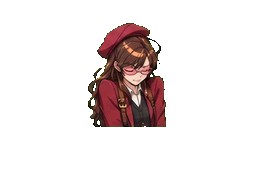
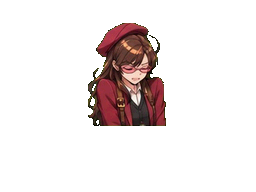
Chayo: pares de boca cerrada/abierta reales (cuadro completo alineado) y diálogos con su personalidad
Claude-Session: https://claude.ai/code/session_01Xb94a44mJyTYV8GKKMfxw2

Changed region(s): [[0.3438, 0.0938, 0.6562, 0.6875]]

diff --git a/casos/caso1.js b/casos/caso1.js
@@ -74,11 +74,11 @@ const CROSS = {
   z1: {
     who:"zoila", title:"Lo que vi desde mi balcón", music:"interrogatorio",
     tutorial:[
-      {who:"chayo",mood:"serious",text:"(Justo, ahora te toca a ti. Puedes ir declaración por declaración.)"},
-      {who:"chayo",text:"(Si algo no te cuadra, [r]presiona[/r]: le pides que explique mejor. A veces se les escapa algo.)"},
-      {who:"chayo",mood:"think",text:"(Y si algo de lo que dice no calza con el expediente, [r]preséntale la prueba[/r].)"},
+      {who:"chayo",mood:"serious",text:"(Tu turno, Justo. Como en una entrevista: declaración por declaración, sin apuro.)"},
+      {who:"chayo",text:"(Si algo no te cuadra, [r]presiona[/r]. En Periodismo le decíamos «repreguntar». A la gente se le escapan cosas.)"},
+      {who:"chayo",mood:"think",text:"(Y si algo no calza con el expediente, [r]preséntale la prueba[/r]. Eso ya es puro Derecho.)"},
     ],
-    loopHint:[{who:"chayo",mood:"think",text:"(Justo, ¿qué tanto se veía en esa calle a esa hora? Revisa lo que te pasé.)"}],
+    loopHint:[{who:"chayo",mood:"think",text:"(Justo, ¿qué tanto se veía en esa calle a esa hora? Revisa lo que te pasé. Yo ya lo leí tres veces.)"}],
     statements:[
       {id:"a", mood:"smug", text:"Vivo al frente de la galería, en el segundo piso. Desde mi balcón se ve la entrada completa.",
        press:[{who:"ines",text:"¿Pasa mucho tiempo en el balcón, señora?"},
@@ -87,7 +87,7 @@ const CROSS = {
       {id:"b", text:"Esa noche no hubo caso con la tele, así que salí al balcón a tomar aire.",
        press:[{who:"ines",mood:"think",text:"¿Qué le pasó a la tele?"},
               {who:"zoila",mood:"sweat",text:"Se apagó, pues. Justo cuando empezaba mi teleserie."},
-              {who:"chayo",mood:"think",text:"(Se apagó sola. A esa hora.)"}]},
+              {who:"chayo",mood:"think",text:"(Se apagó sola. A esa hora. Anotado.)"}]},
       {id:"c", text:"Como a las once y media sentí que se quebraba un vidrio.",
        press:[{who:"ines",text:"¿Está segura de la hora?"},
               {who:"zoila",text:"Mi teleserie empieza a las once. Ya me había resignado hace rato."}]},
@@ -113,7 +113,7 @@ const CROSS = {
   },
   z2: {
     who:"zoila", title:"Lo que de verdad vi", music:"interrogatorio",
-    loopHint:[{who:"chayo",mood:"think",text:"(¿Una chaqueta de ese tamaño? Justo, ¿qué otra cosa mide tanto en este caso?)"}],
+    loopHint:[{who:"chayo",mood:"think",text:"(¿Una chaqueta de ese tamaño? ¿Qué otra cosa mide tanto en este caso? Yo sé, pero no te digo.)"}],
     statements:[
       {id:"a", mood:"sweat", text:"Ya, estaba oscuro. Pero había luna, y una se acostumbra.",
        press:[{who:"ines",text:"¿Cuánto se alcanzaba a ver?"},
@@ -122,7 +122,7 @@ const CROSS = {
       {id:"b", text:"Vi un bulto claro en la vereda, frente a la galería.",
        press:[{who:"ines",mood:"think",text:"¿Lo vio salir de la galería?"},
               {who:"zoila",mood:"sweat",text:"Salir, no. Cuando miré ya iba por la vereda."},
-              {who:"chayo",mood:"think",text:"(Entonces no sabe por dónde salió.)"}]},
+              {who:"chayo",mood:"think",text:"(No sabe por dónde salió. Lo supuso. Clásico: el cerebro rellena lo que no vio.)"}]},
       {id:"c", mood:"smug", text:"Grande. Fácil dos metros. Era la chaqueta del cabro, estoy segura.",
        press:[{who:"ines",mood:"think",text:"¿Por qué está tan segura de que era él?"},
               {who:"zoila",mood:"smug",text:"Porque es el único que anda de amarillo por ahí, pues."},
@@ -142,20 +142,20 @@ const CROSS = {
   },
   g1: {
     title:"Lo que vi esa noche", music:"interrogatorio",
-    loopHint:[{who:"chayo",mood:"think",ifHidden:"c",text:"(Justo, no dijo qué encontró al llegar a la sala. ¡Presiónalo!)"},
+    loopHint:[{who:"chayo",mood:"think",ifHidden:"c",text:"(Justo, no dijo qué encontró al llegar a la sala. ¡Presiónalo! Me muero de curiosidad.)"},
               {who:"chayo",mood:"think",text:"(Y si alguien rompe una ventana desde la calle, ¿para dónde caen los vidrios?)"}],
     statements:[
       {id:"a", text:"Hice la ronda de las once y dejé la sala principal con llave. Esa llave la manejo solo yo.",
        press:[{who:"ines",mood:"think",text:"¿No hay copias?"},
               {who:"testigo",mood:"smile",text:"Ninguna. La dueña nunca quiso hacer. La ando trayendo yo, siempre."},
-              {who:"chayo",mood:"serious",text:"(Una sola llave. Acuérdate de eso.)"}]},
+              {who:"chayo",mood:"serious",text:"(Una sola llave. Y lo dijo con orgullo. Acuérdate de eso.)"}]},
       {id:"b", text:"Como a las once y media sentí el vidrio y partí para la sala.", adds:"c",
        press:[{who:"ines",text:"¿Dónde estaba usted?"},
               {who:"testigo",text:"En la caseta, tomando once. Tarde, sí. Uno come cuando puede."},
               {who:"ines",mood:"think",text:"¿Y qué encontró cuando llegó a la sala?"},
               {who:"testigo",mood:"smug",text:"¡La ventana rota, pues! Si eso es lo principal. Se me pasó contarlo."},
               {who:"jueza",mood:"serious",text:"Señor Llavín, agregue eso a su declaración. Con detalle."},
-              {who:"chayo",mood:"excited",text:"(¿Viste? Presionar sirve. A veces sale lo que no querían decir.)"}]},
+              {who:"chayo",mood:"excited",text:"(¿Viste? Presionar sirve. La gente habla de más cuando se siente cómoda. Psicología, primer año.)"}]},
       {id:"c", hidden:true, text:"El tipo había roto la ventana desde la calle para meterse.",
        press:[{who:"ines",mood:"think",text:"¿Lo vio romperla?"},
               {who:"testigo",mood:"smug",text:"No. Pero no hay que ser detective. Vidrio roto, ladrón adentro."}],
@@ -183,7 +183,7 @@ const CROSS = {
         {who:"tomas",mood:"down",text:"Don Justo... ¿ya está?"},
         {who:"ines",mood:"down",text:"(Así debe haber sido para mi papá. Todos de acuerdo, y él hablando solo.)"},
         {who:"chayo",mood:"serious",text:"Justo. Mírame."},
-        {who:"chayo",mood:"think",text:"La señora dijo que salió al balcón porque se le apagó la tele. ¿Te acuerdas?"},
+        {who:"chayo",mood:"think",text:"La señora dijo que salió al balcón porque se le apagó la tele. ¿Te acuerdas? Yo lo anoté."},
         {who:"chayo",mood:"think",text:"O sea que ya estaba afuera cuando sonó el vidrio."},
         {who:"ines",mood:"think",text:"(Ya estaba afuera...)"},
         {who:"ines",mood:"think",text:"(¿Y qué vio en ese rato? Nadie le preguntó [r]en qué orden[/r] pasaron las cosas.)"},
@@ -203,7 +203,7 @@ const CROSS = {
   },
   z3: {
     who:"zoila", title:"El orden de las cosas", music:"interrogatorio",
-    loopHint:[{who:"chayo",mood:"think",text:"(Pregúntale por el bulto, Justo. Cuándo lo vio, exactamente.)"}],
+    loopHint:[{who:"chayo",mood:"think",text:"(Pregúntale por el bulto, Justo. Cuándo lo vio, exactamente. Los detalles chicos son los que delatan.)"}],
     statements:[
       {id:"a", text:"Yo estaba en el balcón desde que se cortó la luz. Con mi tecito.",
        press:[{who:"ines",text:"¿Todo ese rato?"},
@@ -226,7 +226,7 @@ const CROSS = {
   },
   g2: {
     title:"Lo que alumbré", music:"persecucion",
-    loopHint:[{who:"chayo",mood:"think",text:"(Justo, ¿qué anotó él en su bitácora esa noche? Léela entera.)"}],
+    loopHint:[{who:"chayo",mood:"think",text:"(¿Qué anotó él en su bitácora esa noche? Léela entera, Justo. Hasta la tapa. Yo leo hasta las etiquetas.)"}],
     statements:[
       {id:"a", mood:"sweat", text:"Mire, yo tengo llave porque es mi pega. Eso no me hace ladrón.",
        press:[{who:"ines",text:"Nadie dijo «ladrón», don Custodio."},
@@ -253,7 +253,7 @@ const CROSS = {
       {id:"d", text:"Era el cabro, con el cuadro ya envuelto en su lona amarilla.",
        press:[{who:"ines",mood:"think",text:"¿Amarilla?"},
               {who:"testigo",text:"Amarilla. La de su andamio. Si la conozco."},
-              {who:"chayo",mood:"think",text:"(¿Y eso cómo lo vio?)"}]},
+              {who:"chayo",mood:"think",text:"(¿Y eso cómo lo vio? Ojo con sus manos: no sabe dónde ponerlas.)"}]},
       {id:"e", mood:"angry", text:"Se me arrancó. Uno ya no tiene veinte años.",
        press:[{who:"ines",text:"¿Por dónde se arrancó?"},
               {who:"testigo",mood:"sweat",text:"Por... por la ventana, pues."},
@@ -288,7 +288,7 @@ const DIRECT = {
       {who:"chayo",mood:"think",text:"(No puede [r]soplarle la respuesta[/r]. Ni preguntar [r]dando por hecho algo que nadie ha probado[/r].)"},
       {who:"chayo",mood:"serious",text:"(Si lo hace, [r]protestas[/r]. Y le dices a la jueza por qué. Sin motivo, pierdes credibilidad.)"},
       {who:"ines",mood:"think",text:"(Y si la pregunta es limpia, la dejo pasar. Ok. Ok.)"},
-      {who:"chayo",mood:"smile",text:"(La primera te la soplo yo. Después sigues solo.)"}],
+      {who:"chayo",mood:"smile",text:"(La primera te la soplo yo. Después sigues solo. Yo voy a estar mirando. Y anotando.)"}],
     questions:[
       {who:"fiscal", mood:"smug", text:"Señor Llavín, usted es un guardia honrado, que jamás ha mentido, ¿verdad?", bad:"sugiere",
        coach:[{who:"chayo",mood:"think",text:"(¿Escuchaste? Le puso la respuesta en la boca. Él solo tiene que decir «sí».)"},
@@ -324,7 +324,7 @@ const DIRECT = {
     ],
     end:[
       {who:"fiscal",mood:"smug",text:"No más preguntas, Su Señoría. Que el testigo cuente el resto con sus palabras."},
-      {who:"chayo",mood:"excited",text:"(¡Bien, Justo! No le dejaste pasar ni una trampa a Penna.)"}],
+      {who:"chayo",mood:"excited",text:"(¡Bien, Justo! Ni una trampa le dejaste pasar a Penna. Esto va directo a mi libreta.)"}],
   },
 };
 /* Respuestas generales del interrogatorio directo (se usan en cualquier interrogatorio) */
@@ -360,7 +360,7 @@ const SCRIPT = [
   {who:"ines",pos:L,mood:"down",text:"(No era cierto. Pero nadie se dio el trabajo de escucharlo.)"},
   {who:"ines",pos:L,mood:"serious",text:"(Por eso estoy acá. Para darme el trabajo.)"},
   // ===== Chayo =====
-  {who:"chayo",pos:L,mood:"smile",text:"¡Justo! Llegaste antes que el portero."},
+  {who:"chayo",pos:L,mood:"smile",text:"¡Justo! Llegaste antes que el portero. Yo llegué antes que el portero. Y que tú."},
   {who:"ines",pos:L,mood:"sweat",text:"(Rosario Velado. «Chayo». Mi practicante desde hace una semana.)"},
   {who:"ines",pos:L,mood:"think",text:"(Estudió Psicología. Después Periodismo. Ahora Derecho. Dice que esta vez es la definitiva.)"},
   {who:"ines",pos:L,text:"No podía dormir."},
@@ -368,10 +368,10 @@ const SCRIPT = [
   {who:"ines",pos:L,mood:"think",text:"¿A las nueve de la mañana?"},
   {who:"chayo",pos:L,mood:"sweat",text:"Una era tuya. Perdón."},
   {who:"ines",pos:L,mood:"down",text:"(Ahí se fue mi desayuno.)"},
-  {who:"chayo",pos:L,mood:"serious",evidence:"ficha",text:"Toma, la ficha del cuadro. La saqué del catálogo de la galería."},
+  {who:"chayo",pos:L,mood:"serious",evidence:"ficha",text:"La ficha del cuadro. La saqué del catálogo. Y de paso le pregunté todo a la recepcionista."},
   {who:"ines",pos:L,mood:"think",text:"(Un metro ochenta de alto. El cuadro es más grande que yo.)"},
   {who:"chayo",pos:L,mood:"smile",text:"Y pesa veintidós kilos. Yo no lo colgaría sobre mi cama."},
-  {who:"chayo",pos:L,evidence:"luz",text:"Y esto estaba pegado en todos los postes del cerro. Esa noche cortaron la luz."},
+  {who:"chayo",pos:L,pose:"camara",evidence:"luz",text:"Y esto estaba en todos los postes del cerro. Le saqué foto, por si acaso. Esa noche cortaron la luz."},
   {who:"ines",pos:L,mood:"think",text:"(Un aviso de corte de luz. No sé si sirve de algo.)"},
   {who:"ines",pos:L,mood:"smug",text:"(Lo guardo. Mi papá guardaba hasta las boletas.)"},
   {who:"ines",pos:L,text:"¿Y Tomás?"},
@@ -381,7 +381,7 @@ const SCRIPT = [
   {who:"ines",pos:L,mood:"think",text:"(Tomás Pincheira, 22 años. Pinta murales. Lleva tres noches sin dormir en su casa.)"},
   {who:"ines",pos:L,text:"Vamos a hacer todo lo posible. Cuéntame de nuevo dónde estabas esa noche."},
   {who:"tomas",pos:L,mood:"sweat",text:"En mi pieza, durmiendo. Solo. Ya sé que suena pésimo."},
-  {who:"chayo",pos:L,mood:"worried",text:"Suena a que nadie puede confirmarlo."},
+  {who:"chayo",pos:L,mood:"think",text:"Suena a que nadie puede confirmarlo. Pero mira para abajo cuando lo dice. Eso es pena, no mentira."},
   {who:"ines",pos:L,mood:"think",text:"¿Entraste a la galería ese día?"},
   {who:"tomas",pos:L,mood:"sweat",text:"...A las seis. El caballero de la caseta me deja lavar las brochas adentro."},
   {who:"ines",pos:L,mood:"shock",text:"¿Y recién me lo dices?"},
@@ -392,7 +392,7 @@ const SCRIPT = [
   {who:"tomas",pos:L,mood:"down",text:"Ya decidieron que fui yo."},
   {who:"ines",pos:L,mood:"serious",text:"Todavía no decide nadie. Para eso es el juicio."},
   {who:"ines",pos:L,mood:"sweat",text:"(Ojalá sonara igual de seguro por dentro.)"},
-  {who:"chayo",pos:L,mood:"serious",text:"La Fiscalía trae al guardia de la galería. Dice que lo vio."},
+  {who:"chayo",pos:L,mood:"serious",text:"La Fiscalía trae al guardia de la galería. Dice que lo vio. Ya averigüé: lleva veinte años ahí."},
   {who:"ines",pos:L,mood:"serious",text:"Entonces hay que escuchar muy bien lo que dice."},
   // ===== EL JUICIO =====
   {cmd:"music", track:null},
@@ -412,7 +412,7 @@ const SCRIPT = [
   {who:"fiscal",mood:"serious",text:"Noche del 3 de noviembre. Galería Mirador, Cerro Alegre. Desaparece el óleo «La Sirena del Puerto»."},
   {who:"fiscal",mood:"serious",evidence:"bitacora",text:"El guardia de turno lo deja anotado a las 23:35. Acompaño su bitácora."},
   {who:"ines",mood:"think",text:"(Anota hasta las pilas que le faltan. Ordenado, el caballero.)"},
-  {who:"chayo",mood:"think",text:"(Y tiene un papel pegado en la tapa. Después lo leemos con calma.)"},
+  {who:"chayo",mood:"think",text:"(Y tiene un papel pegado en la tapa. Me muero por leerlo. Después, con calma.)"},
   {who:"fiscal",pose:"point",evidence:"ventana",text:"La sala tiene una sola ventana. Apareció rota."},
   {who:"jueza",mood:"confused",text:"¿La fotografía también fue sustraída?"},
   {who:"fiscal",mood:"sweat",text:"...No, Su Señoría. La fotografía es de la ventana."},
@@ -424,7 +424,7 @@ const SCRIPT = [
   {who:"chayo",mood:"serious",text:"(Míralas en el expediente, Justo. Con calma. Léelas enteras.)"},
   {who:"fiscal",mood:"smug",text:"Además, dos personas lo vieron esa noche."},
   {who:"ines",mood:"shock",text:"(¿Dos?)"},
-  {who:"chayo",mood:"sweat",text:"(...A mí me dijeron una. Perdón.)"},
+  {who:"chayo",mood:"sweat",text:"(...A mí me dijeron una. Mi fuente me falló. Perdón.)"},
   {who:"jueza",text:"Que pase la primera testigo. El otro espera afuera hasta que lo llamen."},
   {who:"ines",mood:"think",text:"(El guardia [r]espera afuera[/r]. No va a oír nada de lo que se diga aquí hasta que lo llamen.)"},
   // ===== TESTIGO 1 =====
@@ -609,15 +609,15 @@ const SCRIPT = [
   // ===== Chayo =====
   {who:"chayo",pos:L,mood:"excited",anim:"jump",text:"¡Justo! ¡Lo hiciste excelente! ¡Pero excelente de verdad!"},
   {who:"ines",pos:L,mood:"sweat",text:"Me salvaste tú. Lo del orden de las cosas fue idea tuya."},
-  {who:"chayo",pos:L,mood:"smile",text:"Yo solo pregunté. Tú hiciste el resto."},
-  {who:"chayo",pos:L,mood:"think",text:"¿Sabes? Creo que por fin encontré lo mío. Algún día yo también quiero tener mi juicio."},
+  {who:"chayo",pos:L,mood:"smile",text:"Yo solo pregunté. Es lo que mejor sé hacer. En tres carreras distintas."},
+  {who:"chayo",pos:L,mood:"think",text:"¿Sabes? Psicología no, Periodismo no... pero esto sí. Algún día quiero tener mi propio juicio."},
   {who:"ines",pos:L,mood:"smile",text:"¿Como defensora? Haríamos un equipo de miedo."},
   {who:"chayo",pos:L,mood:"sweat",text:"Eh... no exactamente."},
   {who:"chayo",pos:L,mood:"serious",text:"Mi sueño es ser fiscal. Como Máximo Penna."},
   {who:"ines",pos:L,mood:"shock",anim:"hit",text:"¡¿Como PENNA?!"},
   {who:"chayo",pos:L,mood:"excited",text:"¿Viste cómo pidió revisar la bodega? No quería ganar. Quería la verdad."},
   {who:"ines",pos:L,mood:"think",text:"(...Eso no se lo puedo discutir.)"},
-  {who:"chayo",pos:L,mood:"pout",text:"Aunque lo del café lo encuentro pura pose."},
+  {who:"chayo",pos:L,mood:"pout",text:"Aunque lo del café es pura pose. Psicológicamente, es un escudo."},
   // ===== Eduardo Estuardo =====
   {who:"eduardo",pos:L,mood:"smile",text:"Vaya, vaya. El hijo de Valdivia, con traje y todo."},
   {who:"ines",pos:L,mood:"shock",text:"¿Investigador Estuardo?"},
@@ -642,7 +642,7 @@ const SCRIPT = [
   {who:"chayo",pos:L,mood:"excited",text:"(¡Me miró! ¡Máximo Penna me miró!)"},
   {who:"ines",pos:L,mood:"sweat",text:"(No te miró, Chayo.)"},
   // ===== Cierre =====
-  {who:"chayo",pos:L,mood:"excited",text:"¡Empanadas! Invito yo. Para compensar la de la mañana."},
+  {who:"chayo",pos:L,mood:"excited",text:"¡Empanadas! Invito yo. Y me cuentas TODO lo que pensabas en cada testimonio."},
   {who:"ines",pos:L,mood:"smile",text:"Esa me la debías."},
   {who:"ines",pos:L,mood:"think",text:"(Hoy alguien se dio el trabajo de escuchar.)"},
   {who:"ines",pos:L,mood:"smug",text:"(Te habría gustado verlo, viejo.)"},

diff --git a/js/assets.js b/js/assets.js
@@ -1,5 +1,5 @@
 /* Rutas de las imágenes del juego. Para cambiar un sprite, reemplaza el PNG. */
-const ART={chayo:{angry:"assets/personajes/chayo/angry.png",angryTalk:"assets/personajes/chayo/angryTalk.png",annoyed:"assets/personajes/chayo/annoyed.png",annoyedTalk:"assets/personajes/chayo/annoyedTalk.png",base:"assets/personajes/chayo/base.png",blush:"assets/personajes/chayo/blush.png",blushTalk:"assets/personajes/chayo/blushTalk.png",camera:"assets/personajes/chayo/camera.png",cameraTalk:"assets/personajes/chayo/cameraTalk.png",cry:"assets/personajes/chayo/cry.png",cryTalk:"assets/personajes/chayo/cryTalk.png",down:"assets/personajes/chayo/down.png",downTalk:"assets/personajes/chayo/downTalk.png",embarrassed:"assets/personajes/chayo/embarrassed.png",embarrassedTalk:"assets/personajes/chayo/embarrassedTalk.png",excited:"assets/personajes/chayo/excited.png",excitedTalk:"assets/personajes/chayo/excitedTalk.png",face:"assets/personajes/chayo/face.png",facepalm:"assets/personajes/chayo/facepalm.png",facepalmTalk:"assets/personajes/chayo/facepalmTalk.png",giggle:"assets/personajes/chayo/giggle.png",giggleTalk:"assets/personajes/chayo/giggleTalk.png",glasses:"assets/personajes/chayo/glasses.png",glassesTalk:"assets/personajes/chayo/glassesTalk.png",laugh:"assets/personajes/chayo/laugh.png",laughTalk:"assets/personajes/chayo/laughTalk.png",panic:"assets/personajes/chayo/panic.png",panicTalk:"assets/personajes/chayo/panicTalk.png",photo:"assets/personajes/chayo/photo.png",photoTalk:"assets/personajes/chayo/photoTalk.png",point:"assets/personajes/chayo/point.png",pointTalk:"assets/personajes/chayo/pointTalk.png",serious:"assets/personajes/chayo/serious.png",seriousTalk:"assets/personajes/chayo/seriousTalk.png",shock:"assets/personajes/chayo/shock.png",shockTalk:"assets/personajes/chayo/shockTalk.png",smile:"assets/personajes/chayo/smile.png",smileTalk:"assets/personajes/chayo/smileTalk.png",smug:"assets/personajes/chayo/smug.png",smugTalk:"assets/personajes/chayo/smugTalk.png",surprise:"assets/personajes/chayo/surprise.png",surpriseTalk:"assets/personajes/chayo/surpriseTalk.png",sweat:"assets/personajes/chayo/sweat.png",sweatTalk:"assets/personajes/chayo/sweatTalk.png",talk:"assets/personajes/chayo/talk.png",think:"assets/personajes/chayo/think.png",think2:"assets/personajes/chayo/think2.png",think2Talk:"assets/personajes/chayo/think2Talk.png",thinkTalk:"assets/personajes/chayo/thinkTalk.png",wink:"assets/personajes/chayo/wink.png",winkTalk:"assets/personajes/chayo/winkTalk.png"},
+const ART={chayo:{angry:"assets/personajes/chayo/angry.png",angryTalk:"assets/personajes/chayo/angryTalk.png",annoyed:"assets/personajes/chayo/annoyed.png",annoyedTalk:"assets/personajes/chayo/annoyedTalk.png",base:"assets/personajes/chayo/base.png",blush:"assets/personajes/chayo/blush.png",blushTalk:"assets/personajes/chayo/blushTalk.png",camera:"assets/personajes/chayo/camera.png",cameraTalk:"assets/personajes/chayo/cameraTalk.png",cry:"assets/personajes/chayo/cry.png",cryTalk:"assets/personajes/chayo/cryTalk.png",down:"assets/personajes/chayo/down.png",downTalk:"assets/personajes/chayo/downTalk.png",embarrassed:"assets/personajes/chayo/embarrassed.png",embarrassedTalk:"assets/personajes/chayo/embarrassedTalk.png",excited:"assets/personajes/chayo/excited.png",excitedTalk:"assets/personajes/chayo/excitedTalk.png",face:"assets/personajes/chayo/face.png",facepalm:"assets/personajes/chayo/facepalm.png",facepalmTalk:"assets/personajes/chayo/facepalmTalk.png",giggle:"assets/personajes/chayo/giggle.png",giggleTalk:"assets/personajes/chayo/giggleTalk.png",glasses:"assets/personajes/chayo/glasses.png",glassesTalk:"assets/personajes/chayo/glassesTalk.png",grin:"assets/personajes/chayo/grin.png",grinTalk:"assets/personajes/chayo/grinTalk.png",happy:"assets/personajes/chayo/happy.png",happyTalk:"assets/personajes/chayo/happyTalk.png",laugh:"assets/personajes/chayo/laugh.png",laughTalk:"assets/personajes/chayo/laughTalk.png",panic:"assets/personajes/chayo/panic.png",panicTalk:"assets/personajes/chayo/panicTalk.png",photo:"assets/personajes/chayo/photo.png",photoTalk:"assets/personajes/chayo/photoTalk.png",point:"assets/personajes/chayo/point.png",pointTalk:"assets/personajes/chayo/pointTalk.png",sad:"assets/personajes/chayo/sad.png",sadTalk:"assets/personajes/chayo/sadTalk.png",serious:"assets/personajes/chayo/serious.png",seriousTalk:"assets/personajes/chayo/seriousTalk.png",shock:"assets/personajes/chayo/shock.png",shockTalk:"assets/personajes/chayo/shockTalk.png",smile:"assets/personajes/chayo/smile.png",smileTalk:"assets/personajes/chayo/smileTalk.png",smug:"assets/personajes/chayo/smug.png",smugTalk:"assets/personajes/chayo/smugTalk.png",surprise:"assets/personajes/chayo/surprise.png",surpriseTalk:"assets/personajes/chayo/surpriseTalk.png",sweat:"assets/personajes/chayo/sweat.png",sweatTalk:"assets/personajes/chayo/sweatTalk.png",talk:"assets/personajes/chayo/talk.png",think:"assets/personajes/chayo/think.png",think2:"assets/personajes/chayo/think2.png",think2Talk:"assets/personajes/chayo/think2Talk.png",thinkTalk:"assets/personajes/chayo/thinkTalk.png",wink:"assets/personajes/chayo/wink.png",winkTalk:"assets/personajes/chayo/winkTalk.png"},
 ines:{angry:"assets/personajes/ines/angry.png",angryTalk:"assets/personajes/ines/angryTalk.png",ap1:"assets/personajes/ines/ap1.png",ap10:"assets/personajes/ines/ap10.png",ap11:"assets/personajes/ines/ap11.png",ap12:"assets/personajes/ines/ap12.png",ap13:"assets/personajes/ines/ap13.png",ap14:"assets/personajes/ines/ap14.png",ap15:"assets/personajes/ines/ap15.png",ap16:"assets/personajes/ines/ap16.png",ap2:"assets/personajes/ines/ap2.png",ap3:"assets/personajes/ines/ap3.png",ap4:"assets/personajes/ines/ap4.png",ap5:"assets/personajes/ines/ap5.png",ap6:"assets/personajes/ines/ap6.png",ap7:"assets/personajes/ines/ap7.png",ap8:"assets/personajes/ines/ap8.png",ap9:"assets/personajes/ines/ap9.png",base:"assets/personajes/ines/base.png",down:"assets/personajes/ines/down.png",downTalk:"assets/personajes/ines/downTalk.png",face:"assets/personajes/ines/face.png",le1:"assets/personajes/ines/le1.png",le10:"assets/personajes/ines/le10.png",le11:"assets/personajes/ines/le11.png",le12:"assets/personajes/ines/le12.png",le13:"assets/personajes/ines/le13.png",le14:"assets/personajes/ines/le14.png",le15:"assets/personajes/ines/le15.png",le16:"assets/personajes/ines/le16.png",le2:"assets/personajes/ines/le2.png",le3:"assets/personajes/ines/le3.png",le4:"assets/personajes/ines/le4.png",le5:"assets/personajes/ines/le5.png",le6:"assets/personajes/ines/le6.png",le7:"assets/personajes/ines/le7.png",le8:"assets/personajes/ines/le8.png",le9:"assets/personajes/ines/le9.png",papel:"assets/personajes/ines/papel.png",papelTalk:"assets/personajes/ines/papelTalk.png",point:"assets/personajes/ines/point.png",pointTalk:"assets/personajes/ines/pointTalk.png",shock:"assets/personajes/ines/shock.png",shockTalk:"assets/personajes/ines/shockTalk.png",smug:"assets/personajes/ines/smug.png",smugTalk:"assets/personajes/ines/smugTalk.png",sweat:"assets/personajes/ines/sweat.png",sweatTalk:"assets/personajes/ines/sweatTalk.png",talk:"assets/personajes/ines/talk.png",think:"assets/personajes/ines/think.png",thinkTalk:"assets/personajes/ines/thinkTalk.png"},
 
 fiscal:{angry:"assets/personajes/fiscal/angry.png",angryTalk:"assets/personajes/fiscal/angryTalk.png",base:"assets/personajes/fiscal/base.png",cafe:"assets/personajes/fiscal/cafe.png",cafeTalk:"assets/personajes/fiscal/cafeTalk.png",cross:"assets/personajes/fiscal/cross.png",crossTalk:"assets/personajes/fiscal/crossTalk.png",cuff:"assets/personajes/fiscal/cuff.png",cuffTalk:"assets/personajes/fiscal/cuffTalk.png",down:"assets/personajes/fiscal/down.png",downTalk:"assets/personajes/fiscal/downTalk.png",face:"assets/personajes/fiscal/face.png",facepalm:"assets/personajes/fiscal/facepalm.png",facepalmTalk:"assets/personajes/fiscal/facepalmTalk.png",fist:"assets/personajes/fiscal/fist.png",fistTalk:"assets/personajes/fiscal/fistTalk.png",frente_angry:"assets/personajes/fiscal/frente_angry.png",frente_angryTalk:"assets/personajes/fiscal/frente_angryTalk.png",frente_base:"assets/personajes/fiscal/frente_base.png",frente_cross:"assets/personajes/fiscal/frente_cross.png",frente_crossTalk:"assets/personajes/fiscal/frente_crossTalk.png",frente_down:"assets/personajes/fiscal/frente_down.png",frente_downTalk:"assets/personajes/fiscal/frente_downTalk.png",frente_gesture:"assets/personajes/fiscal/frente_gesture.png",frente_gestureTalk:"assets/personajes/fiscal/frente_gestureTalk.png",frente_proud:"assets/personajes/fiscal/frente_proud.png",frente_proudTalk:"assets/personajes/fiscal/frente_proudTalk.png",frente_serious:"assets/personajes/fiscal/frente_serious.png",frente_seriousTalk:"assets/personajes/fiscal/frente_seriousTalk.png",frente_shock:"assets/personajes/fiscal/frente_shock.png",frente_shockTalk:"assets/personajes/fiscal/frente_shockTalk.png",frente_smile:"assets/personajes/fiscal/frente_smile.png",frente_smileTalk:"assets/personajes/fiscal/frente_smileTalk.png",frente_smug:"assets/personajes/fiscal/frente_smug.png",frente_smugTalk:"assets/personajes/fiscal/frente_smugTalk.png",frente_talk:"assets/personajes/fiscal/frente_talk.png",frente_think:"assets/personajes/fiscal/frente_think.png",frente_think2:"assets/personajes/fiscal/frente_think2.png",frente_think2Talk:"assets/personajes/fiscal/frente_think2Talk.png",frente_thinkTalk:"assets/personajes/fiscal/frente_thinkTalk.png",gesture:"assets/personajes/fiscal/gesture.png",gestureTalk:"assets/personajes/fiscal/gestureTalk.png",point:"assets/personajes/fiscal/point.png",pointTalk:"assets/personajes/fiscal/pointTalk.png",proud:"assets/personajes/fiscal/proud.png",proud2:"assets/personajes/fiscal/proud2.png",proud2Talk:"assets/personajes/fiscal/proud2Talk.png",proudTalk:"assets/personajes/fiscal/proudTalk.png",serious:"assets/personajes/fiscal/serious.png",seriousTalk:"assets/personajes/fiscal/seriousTalk.png",shock:"assets/personajes/fiscal/shock.png",shockTalk:"assets/personajes/fiscal/shockTalk.png",smile:"assets/personajes/fiscal/smile.png",smileTalk:"assets/personajes/fiscal/smileTalk.png",smug:"assets/personajes/fiscal/smug.png",smug2:"assets/personajes/fiscal/smug2.png",smug2Talk:"assets/personajes/fiscal/smug2Talk.png",smugTalk:"assets/personajes/fiscal/smugTalk.png",stop:"assets/personajes/fiscal/stop.png",stopTalk:"assets/personajes/fiscal/stopTalk.png",sweat:"assets/personajes/fiscal/sweat.png",sweatTalk:"assets/personajes/fiscal/sweatTalk.png",talk:"assets/personajes/fiscal/talk.png",think:"assets/personajes/fiscal/think.png",think2:"assets/personajes/fiscal/think2.png",think2Talk:"assets/personajes/fiscal/think2Talk.png",thinkTalk:"assets/personajes/fiscal/thinkTalk.png"},

diff --git a/js/engine.js b/js/engine.js
@@ -589,7 +589,7 @@ const AMAP={
   barbara:{normal:["base","talk"],smug:["smug","smugTalk"],smile:["smile","smileTalk"],angry:["annoyed","annoyedTalk"],disdain:["annoyed","annoyedTalk"],shock:["shock","shockTalk"],sweat:["sweat","sweatTalk"],think:["think","thinkTalk"],"pose:point":["point","pointTalk"]},
   aurelio:{normal:["base","talk"],smug:["smug","smugTalk"],shock:["shock","shockTalk"],sweat:["sweat","sweatTalk"],think:["think","thinkTalk"],smile:["smile","smileTalk"],angry:["angry","angryTalk"],confused:["confused","confusedTalk"]},
   eduardo:{normal:["base","talk"],smile:["smile","smileTalk"],think:["scratch","scratchTalk"],sweat:["sweat","sweatTalk"],write:["note","noteTalk"],shock:["shock","shockTalk"],serious:["fist","fistTalk"],angry:["fist","fistTalk"],down:["down","downTalk"]},
-  chayo:{normal:["base","talk"],serious:["serious","seriousTalk"],smile:["smile","smileTalk"],happy:["smile","smileTalk"],laugh:["laugh","laughTalk"],giggle:["giggle","giggleTalk"],think:["think","thinkTalk"],think2:["think2","think2Talk"],blush:["blush","blushTalk"],smug:["smug","smugTalk"],wink:["wink","winkTalk"],excited:["excited","excitedTalk"],surprise:["surprise","surpriseTalk"],shock:["shock","shockTalk"],panic:["panic","panicTalk"],sweat:["sweat","sweatTalk"],worried:["sweat","sweatTalk"],down:["down","downTalk"],embarrassed:["embarrassed","embarrassedTalk"],angry:["angry","angryTalk"],pout:["annoyed","annoyedTalk"],annoyed:["annoyed","annoyedTalk"],facepalm:["facepalm","facepalmTalk"],cry:["cry","cryTalk"],"pose:point":["point","pointTalk"],"pose:lentes":["glasses","glassesTalk"],"pose:camara":["camera","cameraTalk"],"pose:foto":["photo","photoTalk"],eat:["giggle","giggleTalk"],pout:["annoyed","annoyedTalk"]},
+  chayo:{normal:["base","talk"],serious:["serious","seriousTalk"],smile:["smile","smileTalk"],happy:["happy","happyTalk"],laugh:["laugh","laughTalk"],giggle:["giggle","giggleTalk"],eat:["giggle","giggleTalk"],think:["think","thinkTalk"],think2:["think2","think2Talk"],blush:["blush","blushTalk"],smug:["smug","smugTalk"],wink:["wink","winkTalk"],grin:["grin","grinTalk"],excited:["excited","excitedTalk"],surprise:["surprise","surpriseTalk"],shock:["shock","shockTalk"],panic:["panic","panicTalk"],sweat:["sweat","sweatTalk"],worried:["sweat","sweatTalk"],down:["down","downTalk"],sad:["sad","sadTalk"],embarrassed:["embarrassed","embarrassedTalk"],angry:["angry","angryTalk"],pout:["annoyed","annoyedTalk"],annoyed:["annoyed","annoyedTalk"],facepalm:["facepalm","facepalmTalk"],cry:["cry","cryTalk"],"pose:point":["point","pointTalk"],"pose:lentes":["glasses","glassesTalk"],"pose:camara":["camera","cameraTalk"],"pose:foto":["photo","photoTalk"]},
   zoila:{normal:["base","talk"],smug:["smug","smugTalk"],smile:["happy","happyTalk"],sweat:["sweat","sweatTalk"],shock:["shock","shockTalk"],think:["think","thinkTalk"],serious:["serious","seriousTalk"],angry:["indignant","indignantTalk"]},
 };
 function artFor(who,mood,pose,m,b){ const A=ART[who]; if(!A) return null; const M=AMAP[who];

diff --git a/casos/caso2.js b/casos/caso2.js
@@ -665,6 +665,7 @@ const SCRIPT = [
   {who:"chayo",pos:"hospital",mood:"sweat",text:"Ya, deja de mirarme así. Pierna quebrada, nada más. Ya me puse la anestesia de chiste."},
   {who:"ines",pos:"hospital",mood:"serious",text:"¿Te acuerdas de algo? ¿Cualquier cosa?"},
   {who:"chayo",pos:"hospital",mood:"down",text:"Unas luces que me encandilaron. Ni el color de la camioneta vi. Y no paró."},
+  {who:"chayo",pos:"hospital",mood:"annoyed",text:"Tres carreras y no me fijé en la patente. La periodista que hay en mí está furiosa."},
   {who:"ines",pos:"hospital",mood:"angry",text:"Carabineros no tiene nada. Ni patente, ni testigos. Nada."},
   {who:"ines",pos:"hospital",mood:"serious",text:"Lo voy a encontrar, Chayo. Te lo prometo."},
   {who:"chayo",pos:"hospital",mood:"smile",text:"Mi abogado favorito. El único que tengo, pero igual."},
@@ -682,8 +683,8 @@ const SCRIPT = [
   {who:null,pos:"hospital",text:"«El único que le ha ganado es un defensor novato: Justo Valdivia.»"},
   {who:"chayo",pos:"hospital",mood:"excited",text:"¡Saliste en la tele! ¡Con nombre y todo!"},
   {who:"ines",pos:"hospital",mood:"sweat",text:"(Y con Penna al frente otra vez.)"},
-  {who:"chayo",pos:"hospital",mood:"serious",text:"Anda. Ese cabro no tiene a nadie. Y yo no puedo acompañarte."},
-  {who:"chayo",pos:"hospital",mood:"smile",text:"Y si de paso encuentras al de la camioneta, mejor."},
+  {who:"chayo",pos:"hospital",mood:"serious",text:"Anda. Ese cabro no tiene a nadie. Y yo aquí enyesada, sin poder meterme en nada. Es una tortura."},
+  {who:"chayo",pos:"hospital",mood:"smile",text:"Y si de paso encuentras al de la camioneta, me cuentas. Con detalles. Todos."},
   {who:"ines",pos:"hospital",mood:"serious",text:"(Esta vez, solo.)"},
   {cmd:"invest", ref:"dia1"},
   // ===== PARTE 2: JUICIO =====
@@ -799,7 +800,7 @@ const SCRIPT = [
   {who:"fiscal",pos:"lobby",mood:"serious",text:"Lo de Saavedra lo llevo yo, personalmente. Su amiga va a tener su juicio."},
   {who:"fiscal",pos:"lobby",mood:"smug",text:"Diecinueve juicios. Diecisiete condenas. No se acostumbre."},
   {cmd:"location", text:"Hospital Van Buren", pos:"hospital"},
-  {who:"chayo",pos:"hospital",mood:"excited",text:"¡Ganaste! ¡Y sin mí! No sé si alegrarme o sentirme ofendida."},
+  {who:"chayo",pos:"hospital",mood:"excited",text:"¡Ganaste! ¡Y sin mí! Ahora cuéntamelo todo. Desde el principio. No te saltes nada."},
   {who:"rocky",pos:"hospital",mood:"beg",text:"Señorita... yo fui el de la camioneta. Me trajo el Estuardo, antes de llevarme detenido."},
   {who:"rocky",pos:"hospital",mood:"down",text:"Quería pedirle perdón en persona. No paré. Eso no tiene vuelta."},
   {who:"chayo",pos:"hospital",mood:"serious",text:"...Gracias por venir. Igual vas a responder por esto, ¿ya?"},

diff --git a/prueba-final.html b/prueba-final.html
@@ -5,7 +5,7 @@
 <meta name="viewport" content="width=device-width, initial-scale=1">
 <title>ACTA CERO — Prueba del final</title>
 <link href="https://fonts.googleapis.com/css2?family=Bebas+Neue&family=Pixelify+Sans:wght@400;700&display=swap" rel="stylesheet">
-<link rel="stylesheet" href="css/style.css?v=56">
+<link rel="stylesheet" href="css/style.css?v=57">
 </head>
 <body>
 <div id="ds">
@@ -49,15 +49,15 @@
     <div class="hint">Activa el sonido · toca la pantalla de abajo para avanzar</div>
   </div>
 </div>
-<script src="js/casos.js?v=56"></script>
-<script src="casos/caso1.js?v=56"></script>
-<script src="casos/caso2.js?v=56"></script>
-<script src="js/audio.js?v=56"></script>
-<script src="js/sprites.js?v=56"></script>
-<script src="js/assets.js?v=56"></script>
-<script src="js/engine.js?v=56"></script>
-<script src="js/investigacion.js?v=56"></script>
-<script src="js/musica.js?v=56"></script>
+<script src="js/casos.js?v=57"></script>
+<script src="casos/caso1.js?v=57"></script>
+<script src="casos/caso2.js?v=57"></script>
+<script src="js/audio.js?v=57"></script>
+<script src="js/sprites.js?v=57"></script>
+<script src="js/assets.js?v=57"></script>
+<script src="js/engine.js?v=57"></script>
+<script src="js/investigacion.js?v=57"></script>
+<script src="js/musica.js?v=57"></script>
 <script>
 /* Versión de prueba: salta directo al veredicto y la escena final del Caso 1. No toca la partida guardada. */
 saveGame=function(){ return true; }; clearSave=function(){};

diff --git a/index.html b/index.html
@@ -5,7 +5,7 @@
 <meta name="viewport" content="width=device-width, initial-scale=1">
 <title>ACTA CERO</title>
 <link href="https://fonts.googleapis.com/css2?family=Bebas+Neue&family=Pixelify+Sans:wght@400;700&display=swap" rel="stylesheet">
-<link rel="stylesheet" href="css/style.css?v=56">
+<link rel="stylesheet" href="css/style.css?v=57">
 </head>
 <body>
 <div id="ds">
@@ -48,14 +48,14 @@
     <div class="hint">Activa el sonido · toca la pantalla de abajo para avanzar</div>
   </div>
 </div>
-<script src="js/casos.js?v=56"></script>
-<script src="casos/caso1.js?v=56"></script>
-<script src="casos/caso2.js?v=56"></script>
-<script src="js/audio.js?v=56"></script>
-<script src="js/sprites.js?v=56"></script>
-<script src="js/assets.js?v=56"></script>
-<script src="js/engine.js?v=56"></script>
-<script src="js/investigacion.js?v=56"></script>
-<script src="js/musica.js?v=56"></script>
+<script src="js/casos.js?v=57"></script>
+<script src="casos/caso1.js?v=57"></script>
+<script src="casos/caso2.js?v=57"></script>
+<script src="js/audio.js?v=57"></script>
+<script src="js/sprites.js?v=57"></script>
+<script src="js/assets.js?v=57"></script>
+<script src="js/engine.js?v=57"></script>
+<script src="js/investigacion.js?v=57"></script>
+<script src="js/musica.js?v=57"></script>
 </body>
 </html>

diff --git a/herramientas/penna4.py b/herramientas/penna4.py
@@ -127,18 +127,22 @@ TABLAS={'v3':{'base':(1,2),'smug':(3,2),'proud':(5,None),'smug2':(6,2),'cross':(
    'facepalm':(12,None),'gesture':(13,14),'stop':(15,16),'point':(17,18),'fist':(21,22),'angry':(23,24),
    'shock':(25,26),'sweat':(27,28),'down':(29,None),'proud2':(31,32),'serious':(1,2),'smile':(6,2)},
  'v4':{'base':(1,2),'cross':(3,4),'fist':(5,6),'point':(7,8)},
- 'chayo':{'base':(1,2),'serious':(3,4),'smile':(5,6),'laugh':(7,None),'giggle':(8,None),'think':(9,10),'think2':(11,12),
-   'blush':(13,None),'glasses':(15,None),'smug':(16,None),'camera':(19,None),'photo':(20,None),'excited':(24,23),'surprise':(25,26),
-   'shock':(27,None),'panic':(28,None),'sweat':(29,None),'down':(31,None),'embarrassed':(32,None),'angry':(35,36),'point':(39,38),
-   'annoyed':(41,42),'facepalm':(43,None),'cry':(44,None),'wink':(48,None)},
+ 'chayo':{'base':(1,2,'f'),'serious':(3,4,'f'),'smile':(5,2),'laugh':(7,None),'giggle':(8,None),'think':(9,10,'f'),'think2':(11,12,'f'),
+   'blush':(13,None),'glasses':(15,None),'wink':(16,None),'camera':(19,None),'photo':(20,None),'excited':(24,23),'surprise':(25,26,'f'),
+   'shock':(27,None),'panic':(28,None),'sweat':(29,None),'down':(30,31,'f'),'embarrassed':(32,None),'annoyed':(33,34,'f'),'angry':(35,36,'f'),
+   'point':(39,37,'f'),'smug':(40,34),'sad':(41,42,'f'),'facepalm':(43,None),'cry':(44,None),'happy':(45,46,'f'),'grin':(48,None)},
  'v5':{'base':(1,2),'smug':(3,4),'cross':(5,6),'point':(7,8),'angry':(9,10),'shock':(11,12),'sweat':(13,14),'cafe':(15,16)}}
 P=TABLAS[os.environ.get('TABLA','v3')]
 FR={}
+if os.environ.get('DUMP'):
+    os.makedirs(os.environ['DUMP'],exist_ok=True)
+    for k,f in F.items(): f.save(os.path.join(os.environ['DUMP'],'f%02d.png'%k))
 def save(n,im): im.save(f'{OUT}/{n}.png',optimize=True)
 for pre,TAB,BOX in (('',P,BP),('frente_',FR,BF)):
-    for n,(c,o) in TAB.items():
+    for n,v in TAB.items():
+        c,o=v[0],v[1]; full=len(v)>2
         save(pre+n,F[c]); t=n+'Talk' if n!='base' else 'talk'
-        save(pre+t, F[c] if o is None else talk(c,o,BOX))       # siempre: cuadro cerrado + solo la boca (el cuerpo no se mueve)
+        save(pre+t, F[c] if o is None else (Image.fromarray(shift_to(np.array(F[c]),np.array(F[o]))) if full else talk(c,o,BOX)))       # siempre: cuadro cerrado + solo la boca (el cuerpo no se mueve)
 b0=F[1]; l,t,r_,b_=b0.getbbox(); hb=b0.crop((0,t,CW,t+40)).getbbox(); cx=(hb[0]+hb[2])//2
 b0.crop((cx-33,t,cx+33,t+70)).transpose(Image.FLIP_LEFT_RIGHT).save(f'{OUT}/face.png')
 print(log)
